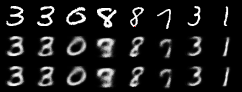
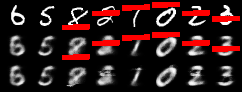
PSMVAE_b works but is ugly

diff --git a/src/models/psmvae_b.py b/src/models/psmvae_b.py
@@ -14,6 +14,7 @@ class Model(torch.nn.Module):
         self.r_cat_dim = model_params_dict.r_cat_dim
         self.z_dim = model_params_dict.z_dim
         self.h_dim = model_params_dict.h_dim
+        self.mnist = model_params_dict.mnist
 
         # q(y|x) y:= r
         self.fc_xobs_h = torch.nn.Linear(self.input_dim_wm, self.h_dim)
@@ -25,9 +26,6 @@ class Model(torch.nn.Module):
         self.fc_xobsy_h = torch.nn.Linear(self.input_dim_wm + self.z_dim + self.r_cat_dim, self.h_dim)
         self.fc_hxobsy_h = torch.nn.Linear(self.h_dim, self.h_dim)
         self.fc_h_xmis = torch.nn.Linear(self.h_dim, self.input_dim*2)
-
-        # p(xmis|y) 
-        # self.fc_y_xmis = torch.nn.Linear(self.r_cat_dim, self.input_dim)
 
         # q(z|x, y) 
         self.fc_xy_h = torch.nn.Linear(self.input_dim_wm + self.r_cat_dim, self.h_dim)
@@ -88,10 +86,6 @@ class Model(torch.nn.Module):
 
     def decoder(self, z, y, test_mode, L=1):
 
-        # p(xmis|y) 
-        # xmis_mu_prior = self.fc_y_xmis(y)
-        # xmis_logvar_prior = torch.zeros_like(xmis_mu_prior).to(z.device)
-
         # p(z|y)
         z_prior = self.fc_y_z(y)
         z_mu_prior, z_logvar_prior = torch.split(z_prior, self.z_dim, dim=1) 
@@ -104,6 +98,9 @@ class Model(torch.nn.Module):
         h2 = F.relu(self.fc_hz_h(hz))
         x = self.fc_h_xm(h2)
 
+        if self.mnist:
+            x[:,:self.input_dim*2] = torch.sigmoid(x[:,:self.input_dim*2])
+
         recon = {
             'xobs': x[:,:self.input_dim],
             'xmis': x[:,self.input_dim:self.input_dim*2],
@@ -111,7 +108,7 @@ class Model(torch.nn.Module):
         }
         
                 
-        return z_mu_prior, torch.clamp(z_logvar_prior, -15, 15), recon #xmis_mu_prior, torch.clamp(xmis_logvar_prior, -15, 15), 
+        return z_mu_prior, torch.clamp(z_logvar_prior, -15, 15), recon  
 
     def forward(self, x, m, test_mode=False, L=1):
         if self.m:
@@ -132,7 +129,6 @@ class Model(torch.nn.Module):
                 z[i], zm[i], zv[i] = self.qz_graph(xm, y, test_mode, L)
                 xmis[i], xmis_mu[i], xmis_logvar[i] = self.qxmis_graph(xm.repeat((L, 1)), z[i], y.repeat((L, 1)), test_mode, L)
             zm_prior[i], zv_prior[i], recon[i] = self.decoder(z[i], y, test_mode, L)
-            # zm_prior[i], zv_prior[i], xmis_mu_prior[i], xmis_logvar_prior[i], recon[i] = self.decoder(z[i], y, test_mode, L)
         
         latent_samples = {
             'z': torch.stack(z),
@@ -141,8 +137,8 @@ class Model(torch.nn.Module):
         variational_params = {
             'xmis_mu': torch.stack(xmis_mu),
             'xmis_logvar': torch.stack(xmis_logvar),
-            'xmis_mu_prior': None, #torch.stack(xmis_mu_prior),
-            'xmis_logvar_prior': None, #torch.stack(xmis_logvar_prior),
+            'xmis_mu_prior': None, 
+            'xmis_logvar_prior': None, 
             'z_mu': torch.stack(zm),
             'z_logvar': torch.stack(zv), 
             'z_mu_prior': torch.stack(zm_prior), 

diff --git a/src/train.py b/src/train.py
@@ -22,17 +22,23 @@ def loss(recon, variational_params, latent_samples, data, compl_data, M_obs, M_m
 
     data_weight = torch.sum(M_obs + M_miss)/torch.sum(M_obs).float() # adjust mse to missingness rate
     
-    mse_data = ((recon['xobs'] * M_obs.repeat((L,1)) - data.repeat((L,1)) * M_obs.repeat((L,1)))**2).sum(-1) 
     if args.mnist:
-        mse_data = torch.stack([torch.nn.functional.binary_cross_entropy(recon['xobs'][i], data, reduction='none').sum(-1) for i in range(args.r_cat_dim)]) # TODO
+        if variational_params['qy'] is not None:
+            mse_data = torch.stack([torch.nn.functional.binary_cross_entropy(recon['xobs'][i]*M_obs, data*M_obs, reduction='none').sum(-1) for i in range(args.r_cat_dim)]) 
+        else:
+            mse_data = torch.nn.functional.binary_cross_entropy(recon['xobs']*M_obs, data*M_obs, reduction='none').sum(-1)
     else:
         mse_data = - log_normal(data*M_obs, recon['xobs']*M_obs, torch.tensor([0.25]).to(args.device)).sum(-1)
     kld_z = normal_KLD(latent_samples['z'], variational_params['z_mu'].repeat((1,L,1)), variational_params['z_logvar'].repeat((1,L,1)), variational_params['z_mu_prior'].repeat((1,L,1)), variational_params['z_logvar_prior'].repeat((1,L,1))).sum(-1)
     
     if recon['M_sim_miss'] is not None:
-        pi = recon['M_sim_miss']
-        mpi = 1 - recon['M_sim_miss']
-        mse_mask = -torch.log(pi*M_miss.float() + mpi*(1-M_miss.float())+1e-6).sum(-1)
+        # pi = recon['M_sim_miss']
+        # mpi = 1 - recon['M_sim_miss']
+        # mse_mask = -torch.log(pi*M_miss.float() + mpi*(1-M_miss.float())+1e-6).sum(-1)
+        if variational_params['qy'] is not None:
+            mse_mask = torch.stack([torch.nn.functional.binary_cross_entropy(recon['M_sim_miss'][i], M_miss.float(), reduction='none').sum(-1) for i in range(args.r_cat_dim)])  
+        else:
+            mse_mask = torch.nn.functional.binary_cross_entropy(recon['M_sim_miss'], M_miss.float(), reduction='none').sum(-1) 
     else: 
         mse_mask = torch.tensor(0).to(data.device).float()
  

diff --git a/src/main.py b/src/main.py
@@ -40,7 +40,7 @@ def parse_args(argv):
 
     # input data
     parser.add_argument('--compl-data-file', nargs='?', default='data/MNIST/data_0', help='complete data file (without header, without file name ending)')
-    parser.add_argument('--miss-data-file', nargs='?', default='data/MNIST/miss_data/MNAR1var_uniform_frac_20_seed_0', help='missing data file (without header, without file name ending)')
+    parser.add_argument('--miss-data-file', nargs='?', default='data/MNIST/miss_data/label_uniform_frac_20_seed_0', help='missing data file (without header, without file name ending)')
     parser.add_argument('--targets-file', nargs='?', default=None, help='targets file (without header, without file name ending)')
     
     # logging results
@@ -51,7 +51,7 @@ def parse_args(argv):
     parser.add_argument('--seed', type=int, default=123, metavar='S', help='random seed (default: 1)')
 
     # model parameters
-    parser.add_argument('--model-class', nargs='?', default='GMVAE', choices=model_map.keys(), help='model class, choices: ' 
+    parser.add_argument('--model-class', nargs='?', default='PSMVAE_b', choices=model_map.keys(), help='model class, choices: ' 
                             + ' '.join(model_map.keys()))
     parser.add_argument('--batch-size', type=int, default=512, metavar='N', help='input batch size for training (default: 200)')
     parser.add_argument('--max-epochs', type=int, default=10, metavar='N', help='number of epochs to train (default: 1,000)')

diff --git a/src/utils.py b/src/utils.py
@@ -213,9 +213,16 @@ def save_image_reconstructions(recon_batch, X, M, qy, epoch, image_dim_0, result
     # sample images 
     input_dim = X.shape[1]
     n = min(X.shape[0], 8)
-    recon_sample_X = torch.einsum("ik, kij -> ij", [qy[:n], recon_batch['xobs'][:, :n]])
+    if qy != None:
+        classes_train = qy.argmax(1)
+        # recon_sample_X = torch.einsum("ik, kij -> ij", [qy[:n], recon_batch['xobs'][:, :n]])
+        recon_sample_X = torch.stack([recon_batch['xobs'][classes_train[i], i, :] for i in range(n)], 0)
+    else:
+        recon_sample_X = recon_batch['xobs'][:, :n]
+
     try:
-        recon_sample_M = np.round(recon_batch['M_sim_miss'].detach())[:n]
+        recon_sample_M = torch.einsum("ik, kij -> ij", [qy[:n], recon_batch['M_sim_miss'][:, :n]])
+        recon_sample_M = np.round(recon_sample_M.detach().cpu().numpy())
     except AttributeError:
         recon_sample_M = np.zeros(recon_sample_X.shape)
     sample_X = X[:n]
